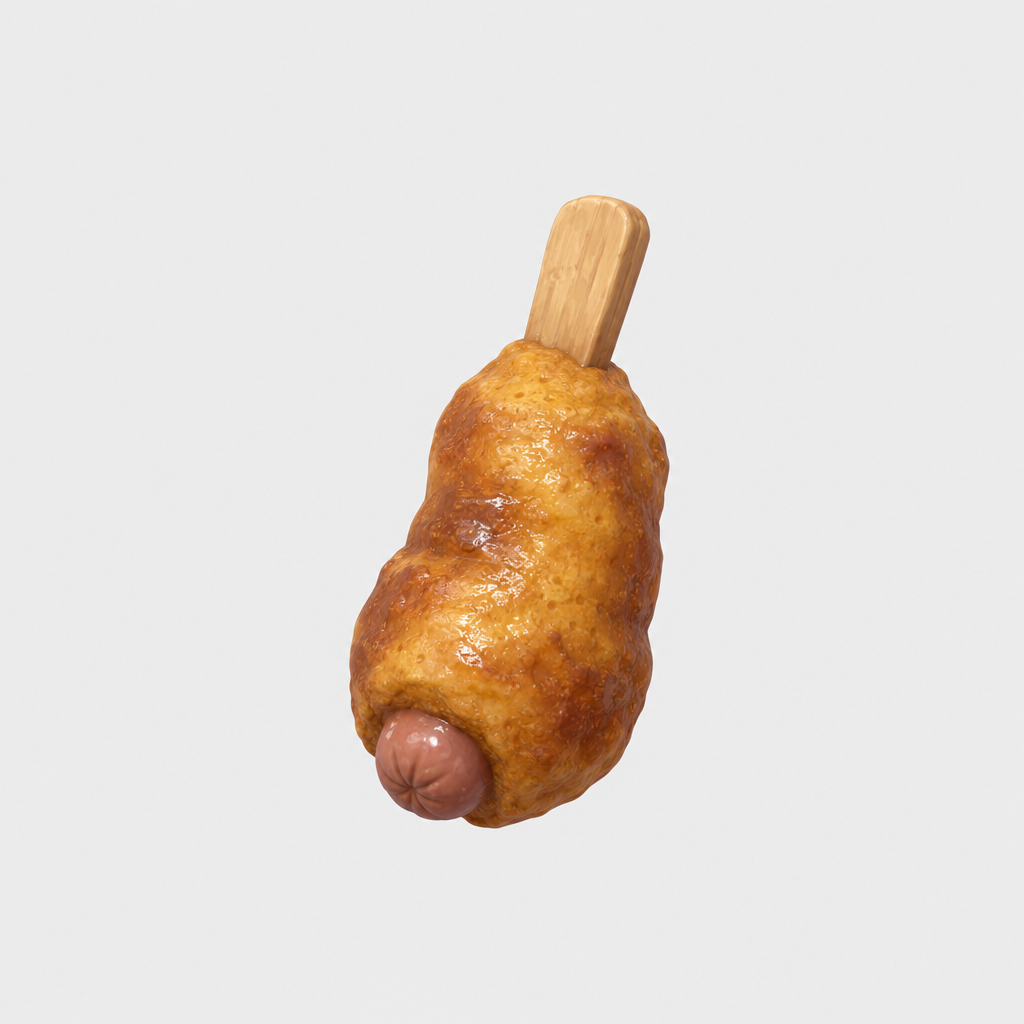
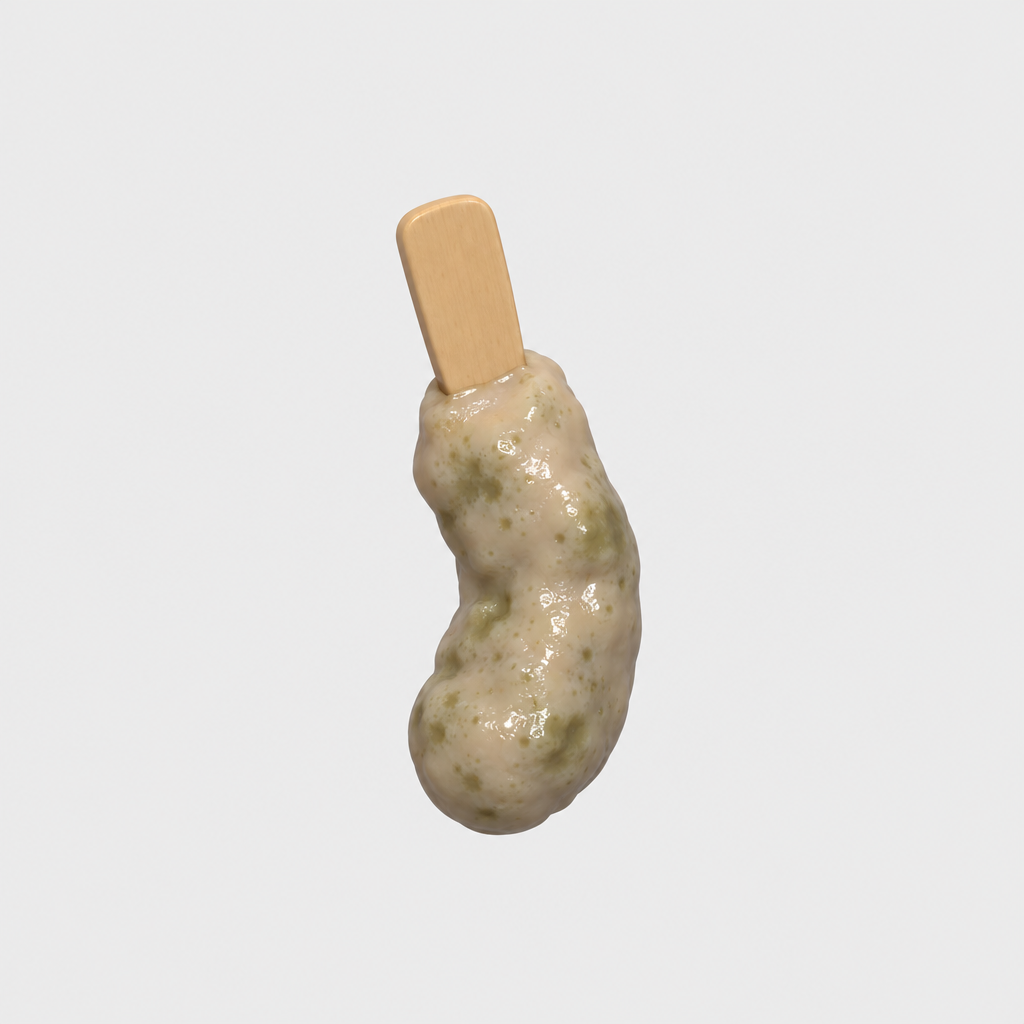
art(debaucheryville): food batch 9 round 2 references: stylised toy look, corndog, kebab, bucket (asset team)
Claude-Session: https://claude.ai/code/session_01Rk2Ri3vAu7TBhRadSU9CbJ

Changed region(s): [[0.3438, 0.1875, 0.6562, 0.8125]]

diff --git a/dev/asset_team/icon_refs/item_kokos_loco_bucket_prompt.md b/dev/asset_team/icon_refs/item_kokos_loco_bucket_prompt.md
@@ -1,7 +1,7 @@
 # item_kokos_loco_bucket (Kokos Loco Bucket): 3D icon reference prompt
 
-Firefly home, GPT Image 2.5 Sunburst, Quality High, 1:1. No lettering anywhere. Rounds: 1. Margins L23.8 R24.0 T26.4 B25.1 (percent, Pillow).
-Canon: bohemian_riviera_items.json about line 102 ("A bucket-sized pina colada in an imported plastic coconut shell painted to look tropical"); bohemian_riviera.md lines 92 and 202 (imported plastic coconut shell).
-Shows: a fat coconut-shaped molded plastic shell (flat even brown, mold seam, painted fibre texture) with a thick rim, filled flush with an opaque creamy off-white slab. No straw, no garnish, no transparency.
+Firefly home, GPT Image 2.5 Sunburst, Quality High, 1:1. No lettering anywhere. Round 2 of 3 after A3 fail (photoreal, small plain cup). Fresh generation. Margins L19.6 R19.7 T28.1 B27.5 (percent, Pillow).
+Canon: bohemian_riviera_items.json about line 102 ("A bucket-sized pina colada in an imported plastic coconut shell painted to look tropical"); bohemian_riviera.md lines 92, 202 (imported plastic coconut shell) and palette lines 118-125. Colours come from that palette: Inflatable-Palm Green #32CD32 (painted shell), Space Heater Orange #FF7F32 (rim and lugs), murk-green #5E7350 (opaque dubious drink). The doc names no colours for the item itself, so this mapping is a design choice to flag.
+Shows: a wide squat bucket-sized molded plastic coconut-shell tub, lurid flat green with a few bad paint blobs, a mold seam, a thick orange rim and two fat solid orange lugs, filled with an opaque murky green-grey flat drink surface. No straw, garnish or transparency. Known weakness: the ribbed shell reads a little pumpkin-like and the drink looks slightly recessed.
 
-Prompt: A single over-the-top cheap beach-bar cocktail bucket as a chunky simplified stylised 3D game-item icon, glossy vinyl toy, NOT photorealistic. Drawn SMALL, central 55 percent, 15 percent margin. One huge bucket-sized fake coconut of cheap imported molded plastic: a fat round coconut-shaped shell with the top cut open, painted one flat even tropical brown with a visible mold seam line and painted-on fibre texture, thick chunky rim, filled to the rim with a thick OPAQUE creamy off-white pina colada whose flat top is a smooth solid slab. No straw, umbrella, garnish, ice, handle, glass, transparency, steam, drips, text, hands, people, shadows.
+Prompt: Stylised 3D toy render of a giant tacky tourist-trap cocktail bucket, smooth glossy vinyl, simple chunky forms, bold flat solid colours, no photographic texture, clean game-item icon. Drawn SMALL in the middle of a big empty flat light-grey square, central 55 percent, 15 percent margin. One BUCKET-SIZED wide squat tub of cheap imported molded plastic in the shape of a cut-open coconut shell, painted a lurid flat even lime green (#32CD32) as a fake tropical paint job, thick chunky rim in flat orange (#FF7F32), two fat stubby solid lug handles, a visible molded seam, a few fat painted-on blobs where the paint is bad. Filled to the rim with an opaque dubious murky green-grey (#5E7350) drink whose top is one flat solid slab. No straw, umbrella, garnish, ice, glass, transparency, steam, drips, text, hands, people, shadows.

diff --git a/dev/asset_team/icon_refs/item_mystery_meat_corndog_prompt.md b/dev/asset_team/icon_refs/item_mystery_meat_corndog_prompt.md
@@ -1,7 +1,7 @@
 # item_mystery_meat_corndog (Mystery Meat Corndog): 3D icon reference prompt
 
-Firefly home, GPT Image 2.5 Sunburst, Quality High, 1:1. No lettering anywhere (the docs give no text). Rounds: 2 (round 1 was photoreal and appetising, rejected). Margins L34.1 R34.7 T19.0 B19.1 (percent, Pillow).
-Canon: cirque_du_shady_items.json about line 56 (consumable, "The mystery isn't what meat. The mystery is IF meat."); the_participation_trophy.md lines 170 and 318 (fresh-tray corndog). No visual description beyond "corndog", so the object is a plain corndog.
-Shows: one short fat lumpy deep-fried corndog, dull brown-yellow batter with oil-dark patches, a blunt pink-grey sausage end, one chunky thumb-thick wooden paddle stick.
+Firefly home, GPT Image 2.5 Sunburst, Quality High, 1:1. No lettering anywhere. Round 2 of 3 after A3 fail (photoreal, appetising, thin stick, sausage tip). Fresh generation. Margins L38.7 R37.4 T18.9 B18.5 (percent, Pillow).
+Canon: cirque_du_shady_items.json about line 56 ("The mystery isn't what meat. The mystery is IF meat."); the_participation_trophy.md lines 170, 318. The doc gives no look, so only the mystery and grease cues are drawn.
+Shows: a slumped, drooping stubby corndog in dull grey-beige batter with sickly olive-grey blotches and a sweaty grease sheen, closed at the bottom (no sausage tip), with a fat flat wooden paddle (about one third of the body width) fused into the top.
 
-Prompt (round 2): A single over-the-top greasy carnival corndog as a chunky stylised 3D game-item icon, like a glossy vinyl toy with hand-painted clay-like surfaces, NOT photorealistic. Drawn SMALL in the middle of a big empty flat light-grey square, central 55 percent, 15 percent margin. One short fat lumpy corndog, plump and slightly dented, thick uneven cornmeal batter shell in dull brownish-yellow with darker oil-soaked brown patches and a wet greasy sheen, a blunt grey-pink sausage end showing at the bottom. One CHUNKY wide flat wooden stick as thick as a thumb. Seedy fairground junk food, not appetising. No steam, drips, crumbs, sauce, text, hands, people, shadows. Front three-quarter view.
+Prompt: Stylised 3D toy render of a single sweaty mystery-meat corndog, smooth glossy vinyl, simple chunky forms, bold flat solid colours, no photographic texture, clean game-item icon. Drawn SMALL in the middle of a big empty flat light-grey square, central 55 percent, 15 percent margin. One fat, slumped, sagging, lumpy corndog shaped like a stubby sausage that droops to one side, coated in an unhealthy dull grey-beige batter with sickly olive-grey blotches and a thick sweaty grease sheen, no golden colour, no sausage tip visible, the batter closed at the bottom. A FAT FLAT wooden paddle stick, at least one third as wide as the corndog, fused solid into the top of the batter. Gross, dubious, funny. No steam, drips, crumbs, sauce, text, hands, people, shadows.

diff --git a/dev/asset_team/icon_refs/lukewarm_kebab_prompt.md b/dev/asset_team/icon_refs/lukewarm_kebab_prompt.md
@@ -1,7 +1,7 @@
 # lukewarm_kebab (Lukewarm Kebab): 3D icon reference prompt
 
-Firefly home, GPT Image 2.5 Sunburst, Quality High, 1:1. No lettering anywhere. Rounds: 2 (round 1 had thin meat strips and thin lettuce leaves, rejected as fragile). Margins L22.8 R21.5 T22.5 B21.6 (percent, Pillow).
-Canon: game/assets/data/items/consumables.json line 4 ("Street meat of dubious provenance. Restores 20 HP."); Late-Night Kebab Stand.md lines 91-105 (pita, grey doner meat, greasy); condiment_clan_ninja.md line 182 (enemy drop). "Lukewarm" drives the pallid, grey, tired look.
-Shows: one fat limp beige pita pocket with grease-stain patches, one solid lump of pressed grey-brown doner meat and one thick wad of pale-green lettuce, fused into one mass.
+Firefly home, GPT Image 2.5 Sunburst, Quality High, 1:1. No lettering anywhere. Round 2 of 3 after A3 fail (photoreal, appetising, thin lettuce). Fresh generation. Margins L27.8 R26.0 T29.9 B29.5 (percent, Pillow).
+Canon: consumables.json line 4 ("Street meat of dubious provenance."); Late-Night Kebab Stand.md lines 91-105 (limp pita, grey greasy meat); condiment_clan_ninja.md line 182. "Lukewarm" drives the pallid, tired look.
+Shows: a slumped beige pita pocket with a grease sheen, one smooth solid lump of sickly grey-brown doner meat, and ONE solid rounded wad of pale-green lettuce (no leaves or strips).
 
-Prompt (round 2): A single over-the-top greasy street kebab as a chunky simplified stylised 3D game-item icon, glossy vinyl toy, NOT photorealistic. Drawn SMALL, central 55 percent, 15 percent margin. One fat limp pita bread pocket in one even dull pallid beige with a few darker grease-stain patches, bulging with ONE big solid lump of pressed grey-brown doner meat with a rough carved surface, and one thick rolled wad of pale-green lettuce, all fused into a single chunky mass, lukewarm, grey, tired, dubious. Only big thick solid shapes, no thin strips or leaves, no wrapper paper. No steam, drips, crumbs, sauce, skewer, text, hands, people, shadows.
+Prompt: Stylised 3D toy render of a single lukewarm dubious street kebab, smooth glossy vinyl, simple chunky forms, bold flat solid colours, no photographic texture, clean game-item icon. Drawn SMALL in the middle of a big empty flat light-grey square, central 55 percent, 15 percent margin. One fat, slumped, sagging pita bread pocket in one flat pallid beige with a sweaty grease sheen, bulging with ONE big solid lump of grey-brown doner meat in a sickly grey tone, and ONE single solid chunky rounded wad of pale-green lettuce, as one smooth blob with no separate leaves and no strips. Limp, tired, lukewarm, dubious origin. Only big thick solid shapes, no wrapper paper. No steam, drips, crumbs, sauce, skewer, text, hands, people, shadows.
